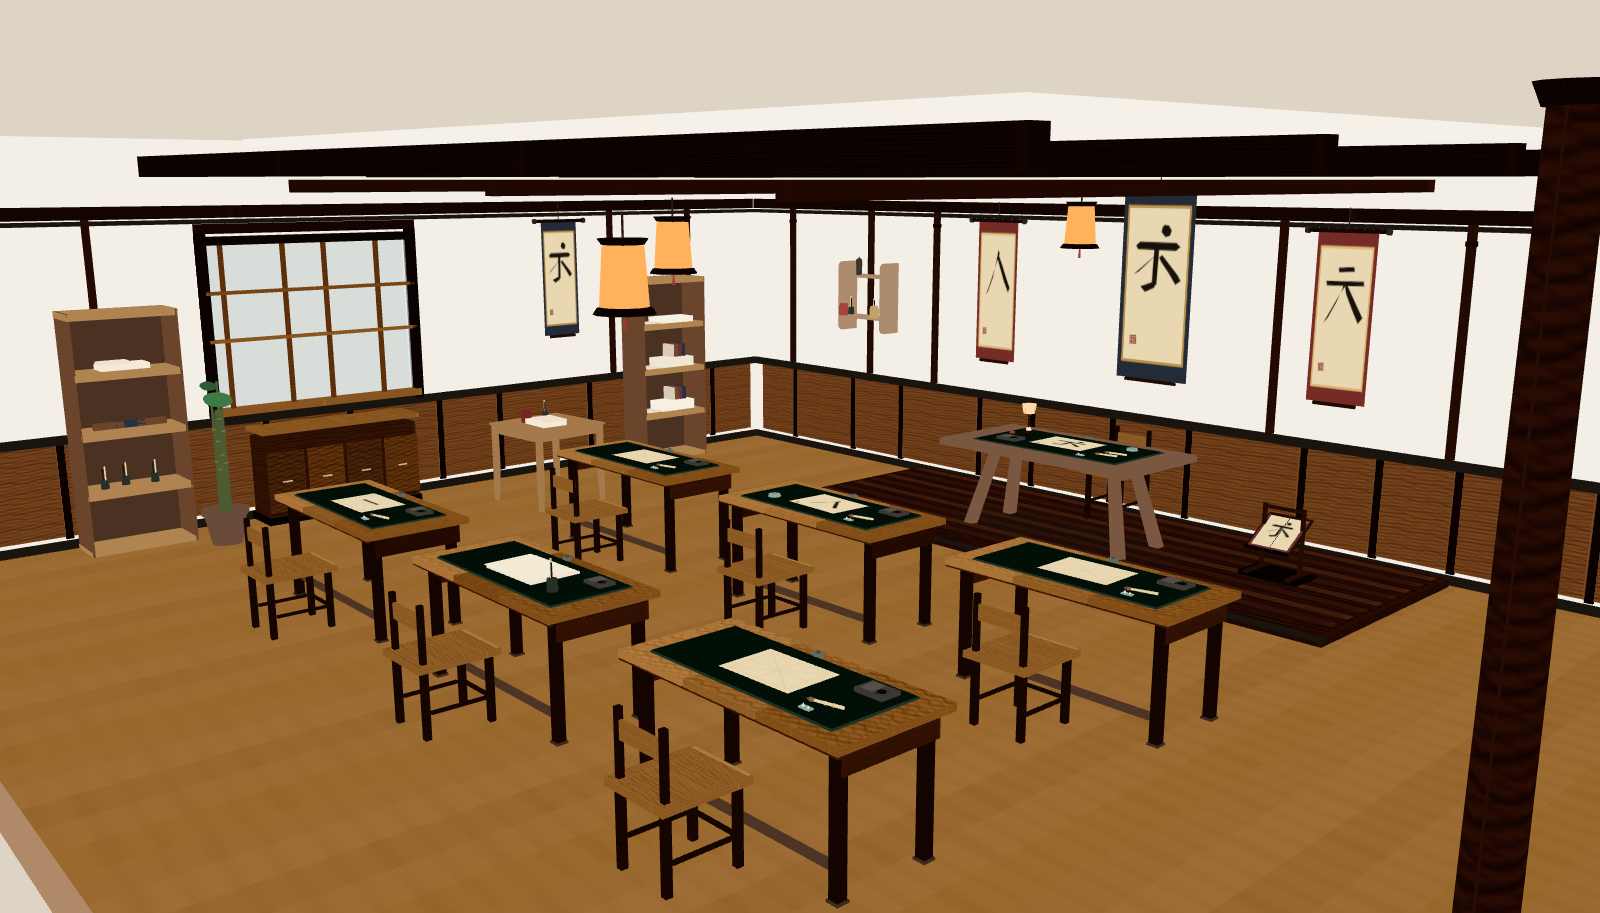
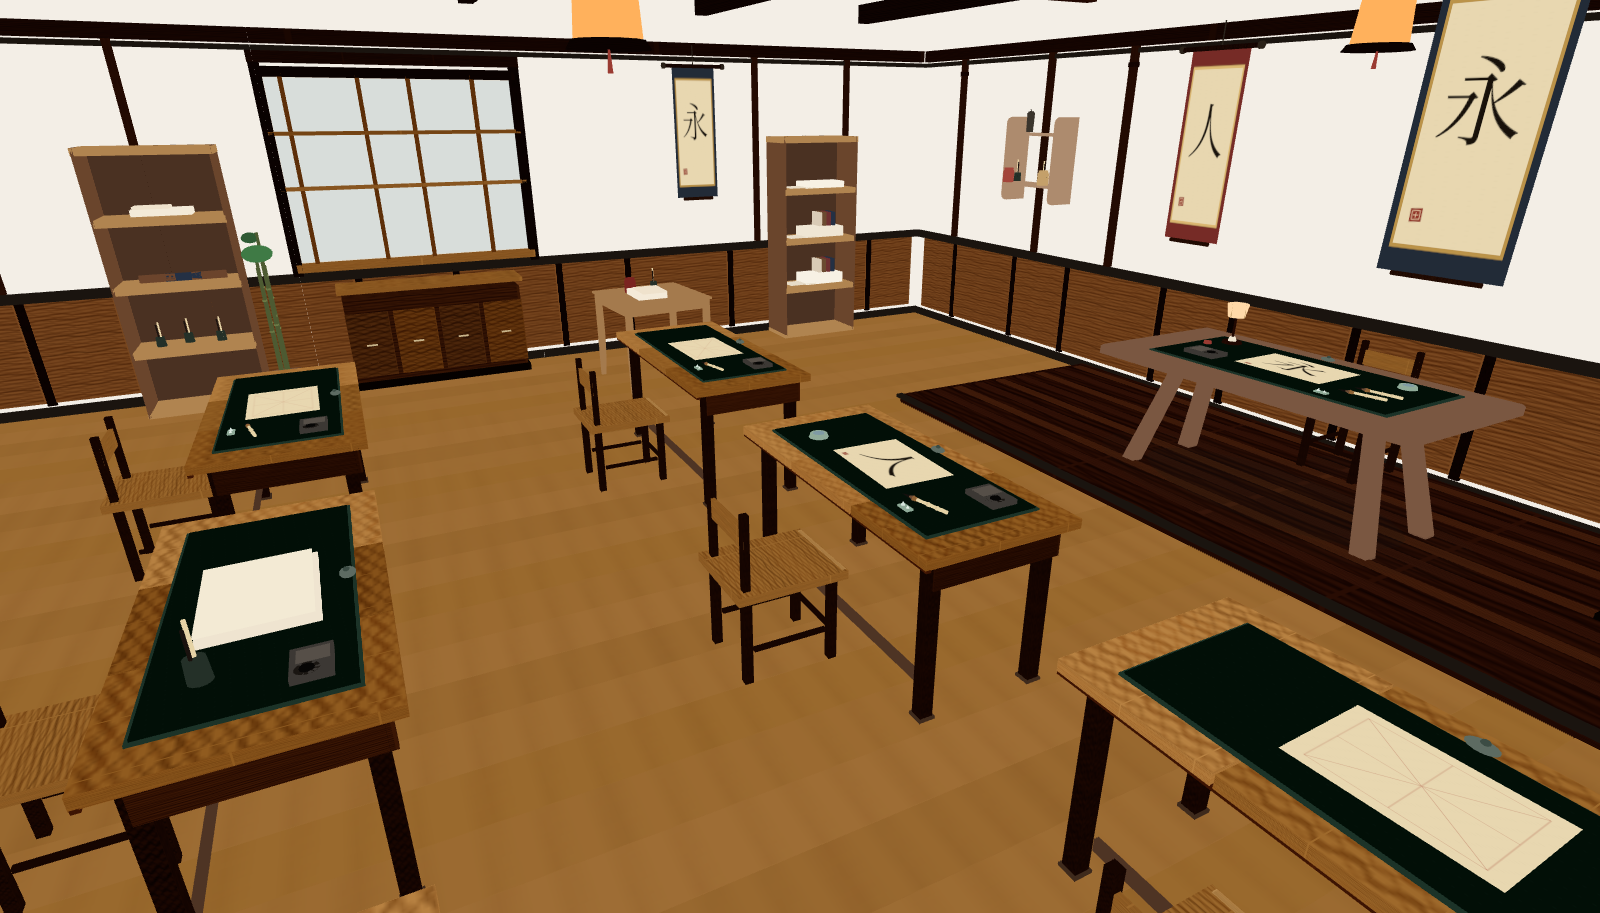
Draw 永, 人, and 天 from Noto Serif SC and crop the default view under the roof.
The sheets and scrolls use the vendored three-glyph subset (U+4EBA, U+5929, U+6C38) instead of polygon strokes. The default camera stands under the existing ceiling so the establishing frames show wall and ceiling with the class and the platform.

diff --git a/experiments/indoor-20261113/calligraphy-classroom/calligraphy.js b/experiments/indoor-20261113/calligraphy-classroom/calligraphy.js
@@ -123,96 +123,18 @@ function feltMat() {
   return m;
 }
 
-function catmull(pts, t) {
-  const n = pts.length;
-  const x = t * (n - 1);
-  const i = Math.min(n - 2, Math.floor(x));
-  const u = x - i;
-  const p = (k) => pts[Math.max(0, Math.min(n - 1, k))];
-  const a = p(i - 1);
-  const b = p(i);
-  const c = p(i + 1);
-  const d = p(i + 2);
-  const u2 = u * u;
-  const u3 = u2 * u;
-  const f = (k) => 0.5 * (
-    (2 * b[k])
-    + (-a[k] + c[k]) * u
-    + (2 * a[k] - 5 * b[k] + 4 * c[k] - d[k]) * u2
-    + (-a[k] + 3 * b[k] - 3 * c[k] + d[k]) * u3
-  );
-  return [f(0), f(1)];
-}
+const GLYPH = { ren: '\u4eba', yong: '\u6c38', tian: '\u5929' };
 
-function sampleStroke(pts, t) {
-  if (pts.length < 3) {
-    const a = pts[0];
-    const b = pts[pts.length - 1];
-    return [a[0] + (b[0] - a[0]) * t, a[1] + (b[1] - a[1]) * t];
-  }
-  return catmull(pts, t);
-}
-
-function inkRibbon(ctx, pts, widthAt) {
-  const steps = 26;
-  const samples = [];
-  for (let i = 0; i <= steps; i++) samples.push(sampleStroke(pts, i / steps));
-  const left = [];
-  const right = [];
-  for (let i = 0; i <= steps; i++) {
-    const prev = samples[Math.max(0, i - 1)];
-    const next = samples[Math.min(steps, i + 1)];
-    let dx = next[0] - prev[0];
-    let dy = next[1] - prev[1];
-    const len = Math.hypot(dx, dy) || 1;
-    dx /= len;
-    dy /= len;
-    const w = Math.max(0.7, widthAt(i / steps));
-    const p = samples[i];
-    left.push([p[0] - dy * w, p[1] + dx * w]);
-    right.push([p[0] + dy * w, p[1] - dx * w]);
-  }
+function drawGlyph(ctx, kind, cx, cy, px) {
+  const ch = GLYPH[kind];
+  if (!ch) return;
+  ctx.save();
   ctx.fillStyle = INK;
-  ctx.beginPath();
-  ctx.moveTo(left[0][0], left[0][1]);
-  for (let i = 1; i <= steps; i++) ctx.lineTo(left[i][0], left[i][1]);
-  for (let i = steps; i >= 0; i--) ctx.lineTo(right[i][0], right[i][1]);
-  ctx.closePath();
-  ctx.fill();
-}
-
-function fillPoly(ctx, pts) {
-  ctx.fillStyle = INK;
-  ctx.beginPath();
-  ctx.moveTo(pts[0][0], pts[0][1]);
-  for (let i = 1; i < pts.length; i++) ctx.lineTo(pts[i][0], pts[i][1]);
-  ctx.closePath();
-  ctx.fill();
-}
-
-function heng(ctx, x0, y0, x1, y1) {
-  inkRibbon(ctx, [[x0, y0], [x1, y1]], (t) => (t < 0.12 ? 6.4 : 4.5 + (t > 0.9 ? 1.1 : 0)));
-}
-
-function drawRen(ctx) {
-  fillPoly(ctx, [[52, 6], [58, 14], [40, 46], [22, 80], [12, 96], [20, 90], [36, 62], [48, 22]]);
-  fillPoly(ctx, [[48, 20], [54, 16], [68, 36], [84, 62], [96, 80], [90, 90], [74, 68], [56, 36]]);
-}
-
-function drawTian(ctx) {
-  fillPoly(ctx, [[34, 8], [70, 6], [72, 14], [36, 16]]);
-  fillPoly(ctx, [[8, 30], [94, 28], [96, 36], [10, 38]]);
-  fillPoly(ctx, [[48, 34], [54, 36], [36, 58], [18, 84], [8, 98], [18, 90], [34, 66], [46, 44]]);
-  fillPoly(ctx, [[52, 38], [58, 36], [74, 56], [90, 76], [98, 86], [88, 96], [72, 74], [56, 50]]);
-}
-
-function drawYong(ctx) {
-  fillPoly(ctx, [[62, 1], [70, 2], [76, 9], [73, 17], [64, 19], [56, 12], [58, 4]]);
-  fillPoly(ctx, [[8, 32], [16, 26], [86, 26], [94, 32], [86, 38], [12, 38]]);
-  fillPoly(ctx, [[44, 34], [54, 34], [52, 88], [42, 88]]);
-  fillPoly(ctx, [[42, 80], [52, 82], [48, 92], [30, 99], [20, 91], [32, 87], [42, 84]]);
-  fillPoly(ctx, [[46, 42], [54, 40], [34, 54], [14, 68], [6, 74], [16, 70], [34, 56], [46, 46]]);
-  fillPoly(ctx, [[54, 48], [60, 44], [76, 58], [92, 72], [98, 80], [88, 86], [74, 70], [58, 54]]);
+  ctx.font = `${px}px "Noto Serif SC"`;
+  ctx.textAlign = 'center';
+  ctx.textBaseline = 'middle';
+  ctx.fillText(ch, cx, cy);
+  ctx.restore();
 }
 
 function drawSeal(ctx, x, y, s) {
@@ -242,17 +164,6 @@ function paperFibers(ctx, w, h) {
   }
 }
 
-function drawGlyph(ctx, kind, ox, oy, s) {
-  ctx.save();
-  ctx.translate(ox, oy);
-  ctx.scale(s, s);
-  if (kind === 'ren') drawRen(ctx);
-  else if (kind === 'tian') drawTian(ctx);
-  else if (kind === 'yong') drawYong(ctx);
-  else if (kind === 'stroke') heng(ctx, 16, 48, 84, 46);
-  ctx.restore();
-}
-
 function paperTexture(kind) {
   const c = document.createElement('canvas');
   c.width = 512;
@@ -275,9 +186,9 @@ function paperTexture(kind) {
     ctx.lineTo(m, 512 - m);
     ctx.stroke();
   }
-  if (kind === 'yong' || kind === 'ren' || kind === 'tian' || kind === 'stroke') {
-    drawGlyph(ctx, kind === 'stroke' ? 'stroke' : kind, 86, 64, 3.35);
-    if (kind !== 'stroke') drawSeal(ctx, 48, 448, 34);
+  if (kind === 'yong' || kind === 'ren' || kind === 'tian') {
+    drawGlyph(ctx, kind, 256, 228, 340);
+    drawSeal(ctx, 48, 448, 34);
   }
   return canvasTex(c);
 }
@@ -288,7 +199,7 @@ function glyphCard(kind) {
   c.height = 640;
   const ctx = c.getContext('2d');
   paperFibers(ctx, 512, 640);
-  drawGlyph(ctx, kind, 70, 80, 3.6);
+  drawGlyph(ctx, kind, 256, 300, 380);
   return canvasTex(c);
 }
 
@@ -308,7 +219,7 @@ function scrollTexture(kind) {
     ctx.fillStyle = 'rgba(120, 90, 50, 0.045)';
     ctx.fillRect(40 + ((i * 53) % 400), 92 + ((i * 37) % 772), 14, 1);
   }
-  drawGlyph(ctx, kind, 64, 168, 3.5);
+  drawGlyph(ctx, kind, 240, 390, 300);
   drawSeal(ctx, 78, 740, 46);
   return canvasTex(c);
 }
@@ -912,10 +823,23 @@ function onReady(ctx) {
   window.__audit = { issues, toonCount, basicCount, otherCount, shadingMode: ctx.shadingMode };
 }
 
-boot({
-  makeShell,
-  makeProcedural,
-  onBeforeShade,
-  onReady,
-  readyText: 'ready — calligraphy classroom · drag orbit · U unlit · T toon',
+const glyphFace = new FontFace('Noto Serif SC', 'url(./fonts/NotoSerifSC-Regular-subset.woff2)');
+glyphFace.load().then(async (face) => {
+  document.fonts.add(face);
+  await document.fonts.load('120px "Noto Serif SC"', '\u6c38\u4eba\u5929');
+  if (!document.fonts.check('120px "Noto Serif SC"', '\u6c38')) {
+    throw new Error('Noto Serif SC missing U+6C38');
+  }
+  boot({
+    makeShell,
+    makeProcedural,
+    onBeforeShade,
+    onReady,
+    readyText: 'ready — calligraphy classroom · drag orbit · U unlit · T toon',
+  });
+}).catch((err) => {
+  window.__errors = window.__errors || [];
+  window.__errors.push(String(err && err.stack || err));
+  const statusEl = document.getElementById('status');
+  if (statusEl) statusEl.textContent = 'font failed';
 });

diff --git a/experiments/indoor-20261113/calligraphy-classroom/scene_lib.js b/experiments/indoor-20261113/calligraphy-classroom/scene_lib.js
@@ -392,6 +392,10 @@ export async function boot(opts) {
     const p = presets[camKey];
     camera.position.set(...p.position);
     controls.target.set(...p.target);
+    if (p.fov) {
+      camera.fov = p.fov;
+      camera.updateProjectionMatrix();
+    }
     controls.update();
   }
 

diff --git a/experiments/indoor-20261113/calligraphy-classroom/tests/test_layout.py b/experiments/indoor-20261113/calligraphy-classroom/tests/test_layout.py
@@ -177,6 +177,13 @@ def test_storage_and_cameras_inside():
     assert "book_stand" not in layout["assets"]
     assert kinds.count("display_bookcase") == 2
     assert "felt" in scene and "hangingScroll" in scene and "inkstone" in scene
+    assert "\\u6c38" in scene and "\\u4eba" in scene and "\\u5929" in scene
+    assert "fillPoly" not in scene and "drawYong" not in scene
+    font = ROOT / "fonts" / "NotoSerifSC-Regular-subset.woff2"
+    assert font.is_file() and font.stat().st_size > 400
+    assert "fonts.gstatic" not in scene and "https://" not in scene
+    x, y, z = layout["camera"]["position"]
+    assert -4.3 < x < 3.2 and y < 3.05 and -3.8 < z < 1.55
 
 
 if __name__ == "__main__":

diff --git a/experiments/indoor-20261113/calligraphy-classroom/refs/GAP.md b/experiments/indoor-20261113/calligraphy-classroom/refs/GAP.md
@@ -7,13 +7,14 @@ Closed in this scene:
 - A low platform, a trestle demonstration table, a model-book stand, and hanging scrolls for 人, 永, and 天. The demonstration sheet is turned so the class reads 永 right-side up.
 - Paper case, brush case, wall shelf, and a side table clear of the writing aisle.
 - Toon is the default: four-step `gradientMap` on `MeshToonMaterial`, hard shadows, warm key plus lantern and desk-lamp pools. `U` and `?mode=unlit` swap every mesh to `MeshBasicMaterial`.
-- 人, 永, and 天 are regular-script skeletons: one bar under a dot for 永, a stem that continues into a left hook, and a 捺 that ends in a chisel foot. The demonstration sheet is clear of the brushes, inkstone, and weight.
+- 人 U+4EBA, 永 U+6C38, and 天 U+5929 are Noto Serif SC glyphs, rasterized from the vendored woff2 before the scene boots. The demonstration sheet is clear of the brushes, inkstone, and weight.
+- The default camera stands under the existing ceiling slab and looks across the class, so the frame is cropped by wall and ceiling. Both desk rows and the teaching platform stay in view. The back-right desk sits beside that camera and falls outside the establishing frame.
 - Seats are single-plank wood chairs. The desk lamp is a small paper shade on a wood stem. The platform holds an open model book on a copy stand.
 - Upper walls carry posts and a plate under the beams. Floor boards run the length of the room in one wood tone, with a quiet grain.
 
 Still open:
 
-- The characters are filled polygons, not a calligrapher’s brush. The dot is still a little faceted, and the hook is small on the far wall in the establishing view.
+- The glyphs are a Song/serif text face, not a 楷书 brush hand. Stroke endings are the font’s, and the sheet is a texture, not wet ink.
 - Catalog desks were the wrong object, so the writing desks, felt, inkstones, and brushes are procedural. The inkstone well is a dark disc in a slab, not a carved Duan stone.
 - The paper and brush cases are glass display carcasses. Stacks sit on the shelf line.
 - Jam jars and the straw holder stand in for ink bottles and a brush tube.

diff --git a/experiments/indoor-20261113/calligraphy-classroom/ATTRIBUTIONS.md b/experiments/indoor-20261113/calligraphy-classroom/ATTRIBUTIONS.md
@@ -11,3 +11,5 @@ Furniture is reused by symlink from existing scene bakes. Programs are CC-BY fro
 - **Straw holder** — "Straw Holder" by KatH10, https://sketchfab.com/3d-models/252f730f1a044efdb801f84c7eaabbce, CC-BY-4.0. Symlink to `cafe/assets/straw_holder__252f730f1a04.glb`. Tinted and used as a brush tube on the wall shelf.
 
 Desks, felt mats, inkstones, brushes, rests, paperweights, water dishes, scrolls, lanterns, wood seats, the paper-shade desk lamp, the copy stand, wainscot, wall posts, beams, lattice window, cabinet, and the platform are procedural. Three.js r170 is the existing vendored build, symlinked from `greenhouse/vendor/`.
+
+- **Noto Serif SC** — subset of Noto Serif CJK / Source Han Serif, SIL Open Font License 1.1, © Google and Adobe. `fonts/NotoSerifSC-Regular-subset.woff2` contains only U+4EBA 人, U+5929 天, and U+6C38 永. The scrolls, the demonstration sheet, and the model book are `fillText` of those code points, rasterized offline into canvas textures.

diff --git a/experiments/indoor-20261113/calligraphy-classroom/README.md b/experiments/indoor-20261113/calligraphy-classroom/README.md
@@ -4,6 +4,8 @@ A cutaway practice room: six broad writing desks face a low platform, a demonstr
 
 Shared GLBs and the vendored Three.js runtime are symlinks. Do not copy them. Student desks are built in this scene because the catalog study desk is 0.37 m wide and the school desk is a 0.60 × 0.44 m metal top.
 
+人, 永, and 天 are Noto Serif SC (U+4EBA, U+6C38, U+5929) from `fonts/NotoSerifSC-Regular-subset.woff2`. The default camera sits under the roof.
+
 ## Open
 
 From the repo root, so the asset symlinks resolve:
